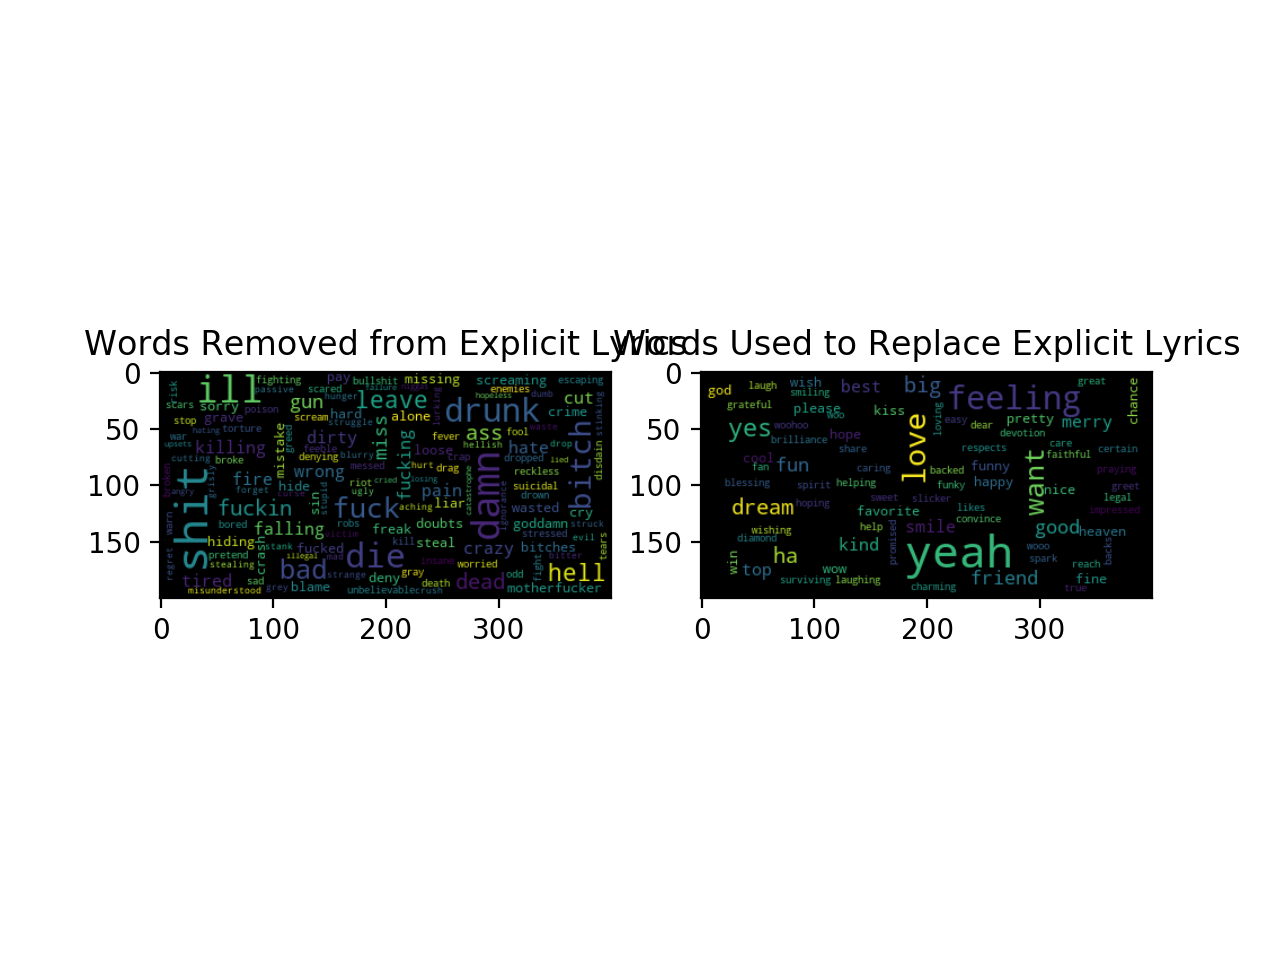
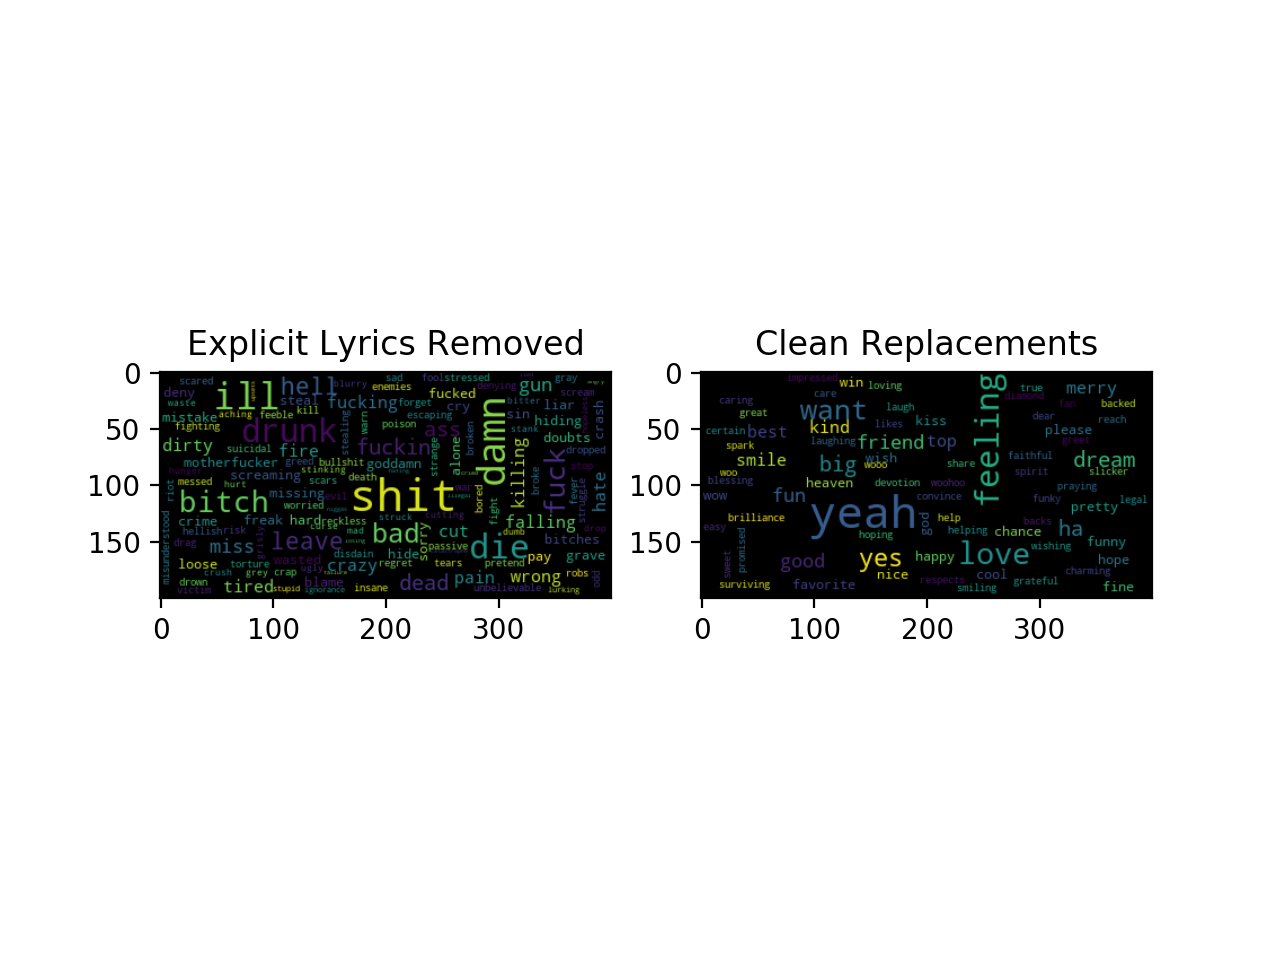
more spacing issues resolved

Changed region(s): [[0.0625, 0.3438, 0.9688, 0.625]]

diff --git a/Visualization.py b/Visualization.py
@@ -69,11 +69,11 @@ addedWC = wordcloud.WordCloud(max_font_size=40).generate(added)
 # plot wordclouds
 plt.subplot(1,2,1)
 plt.imshow(removedWC, interpolation='bilinear')
-plt.title("Words Removed from Explicit Lyrics")
+plt.title("Explicit Lyrics Removed")
 
 plt.subplot(1,2,2)
 plt.imshow(addedWC, interpolation='bilinear')
-plt.title("Words Used to Replace Explicit Lyrics")
+plt.title("Clean Replacements")
 plt.show()
  
 plt.figure(4, figsize=(10, 8))
